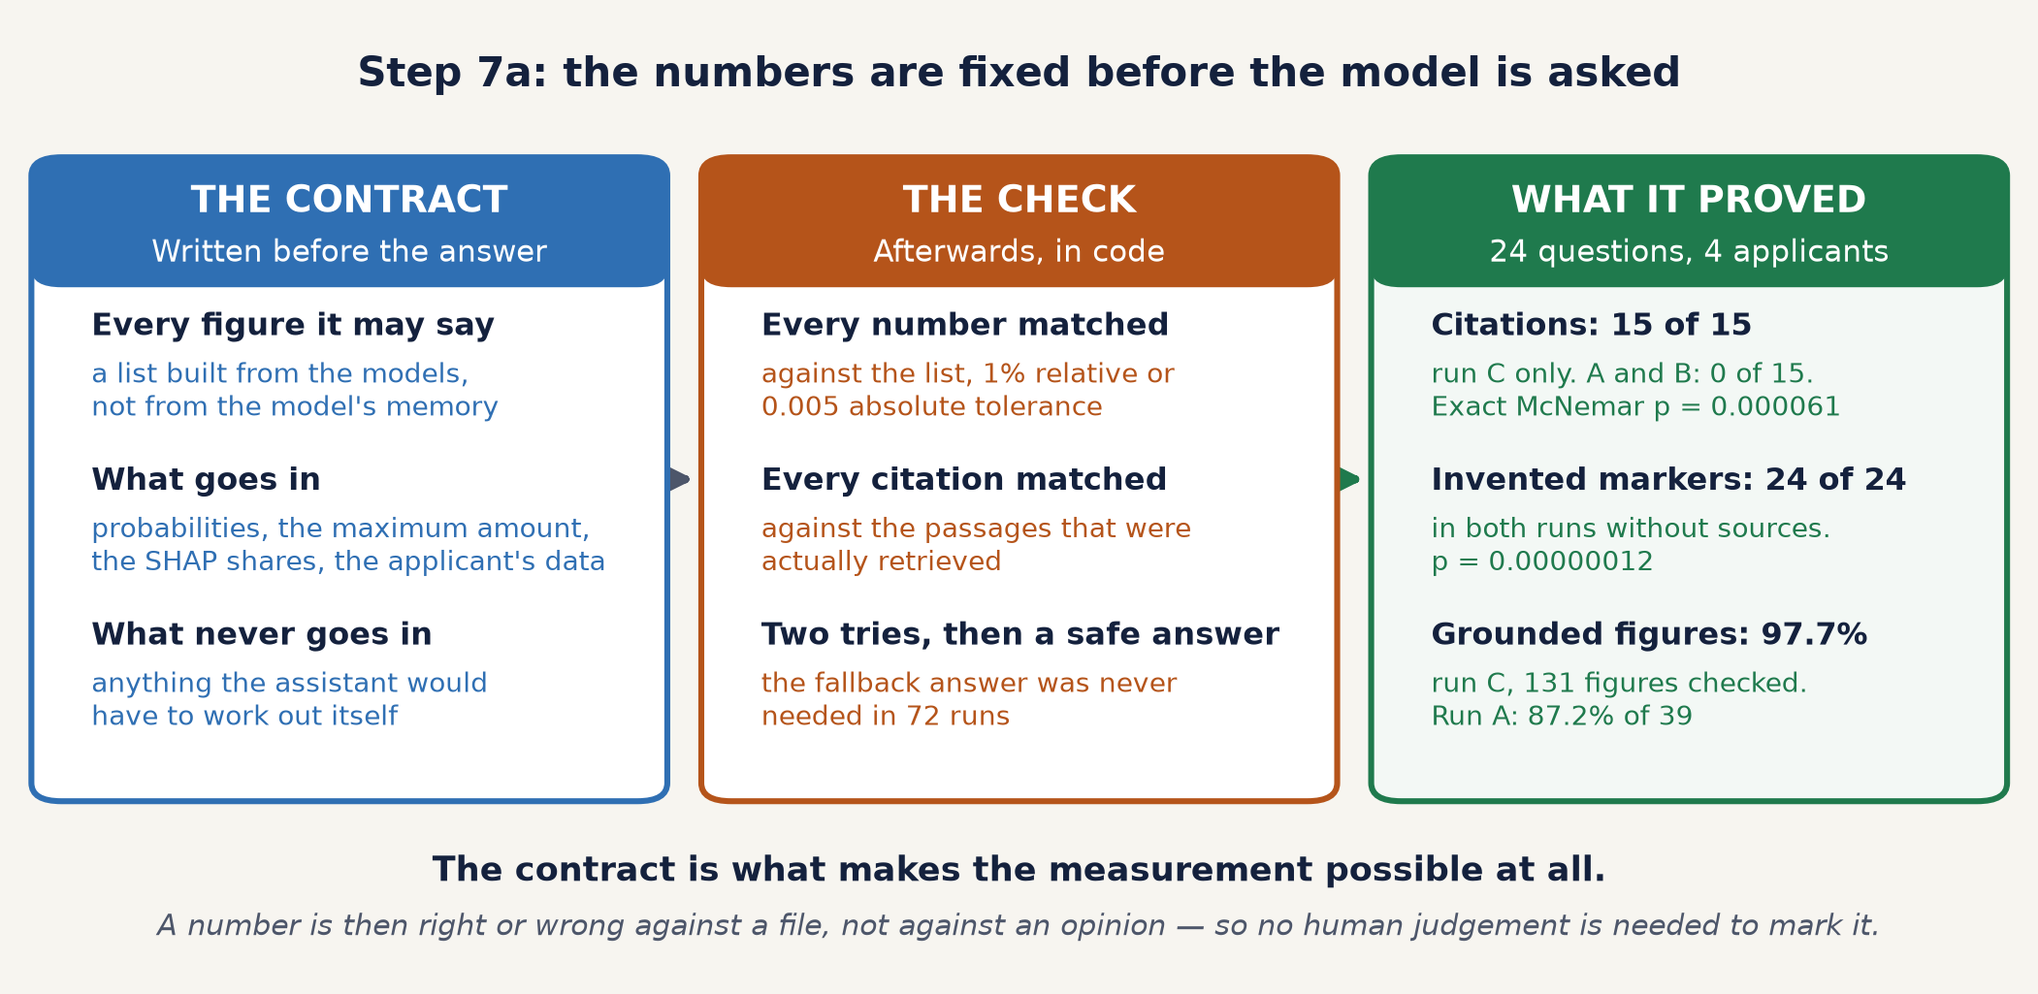
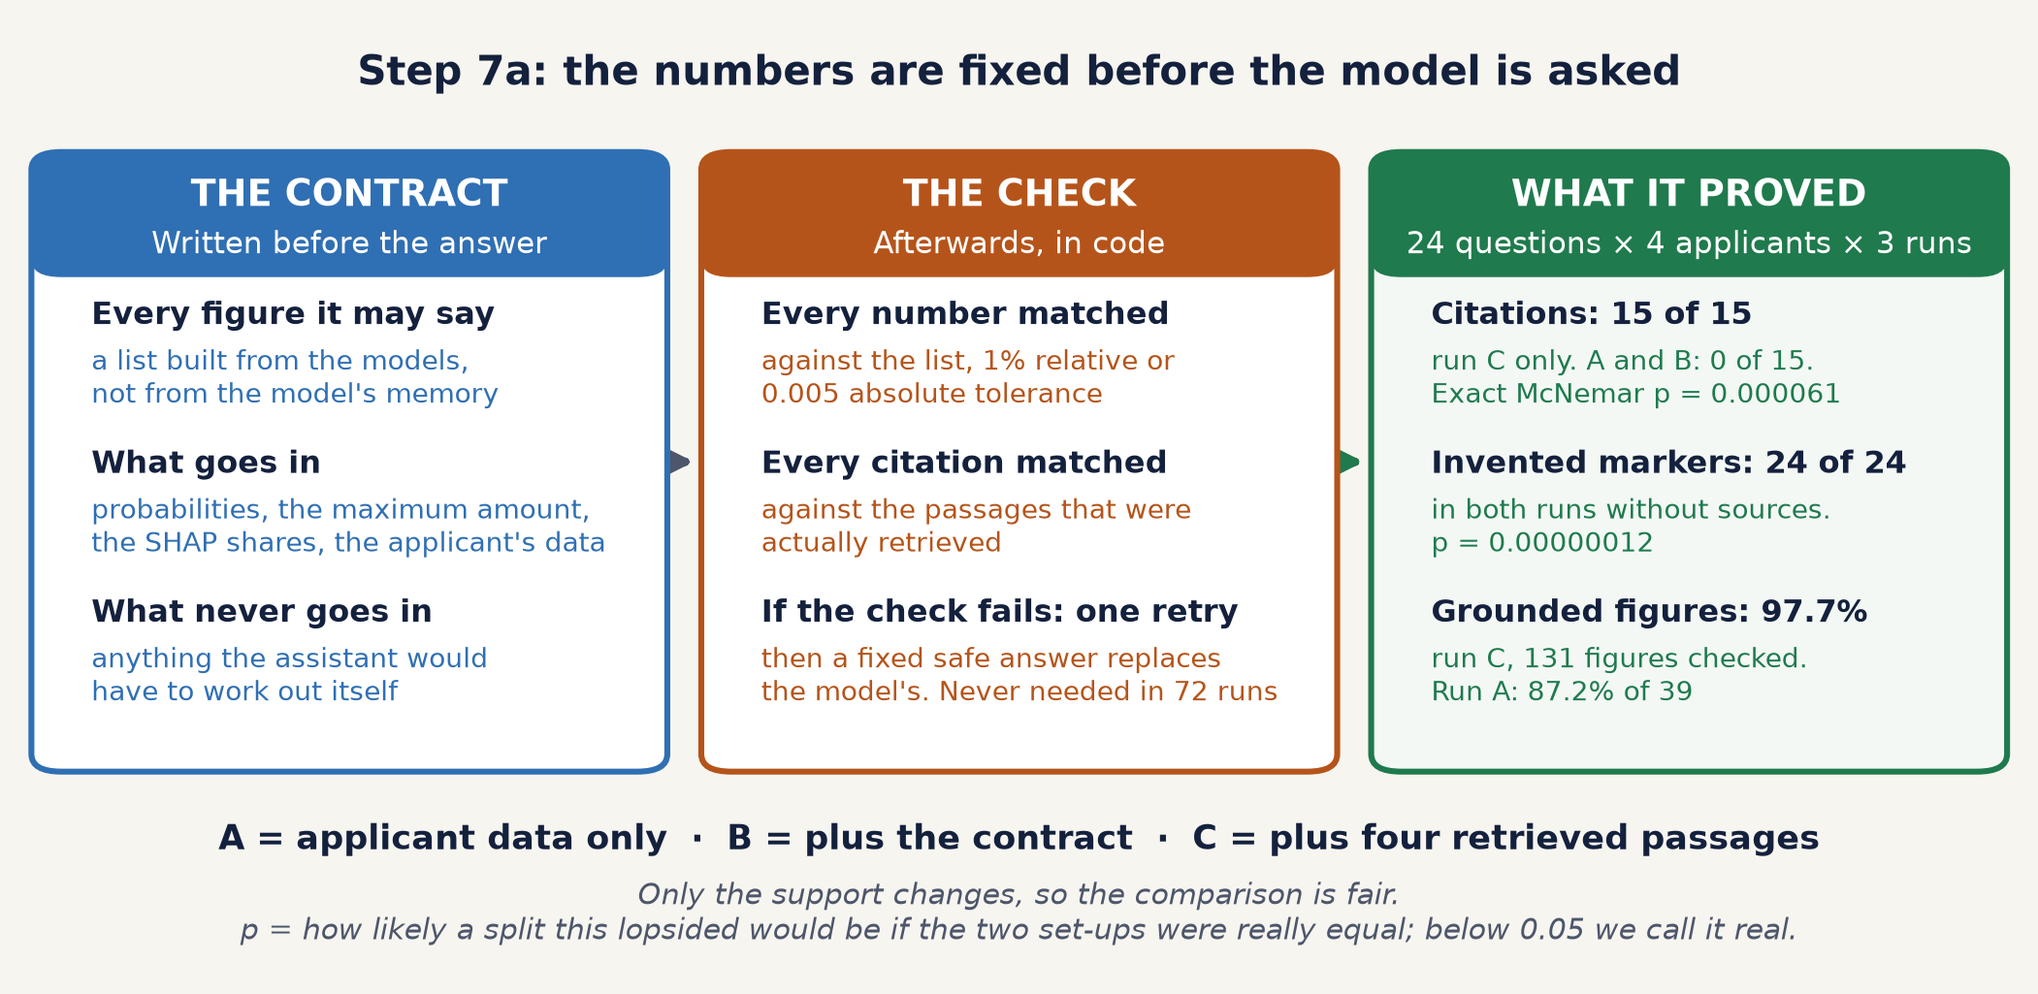
Correct the undecided count, and put the definitions on the slides
It was 5 of 8 measures undecided on dataset 2, not 4. The claim was in
two modules and five vault notes; all of them now say 5, and the figure
spells out what the 8 are (4 measures x 2 cut-offs) so the number can be
checked rather than taken.

Definitions that were missing, now on the slides themselves:

  borderline     | P - 0.80 | <= 0.05, so P from 0.75 to 0.85
  disagreement   | P(A) - P(B) | > 0.50, both models run on everyone
  weak group     within-group AUC below 0.60
  unusual input  value outside the 1st-99th percentile
  sample audit   every refusal (P < 0.80), a tenth of it read
  really approved  the true label, not the model's output

Three questions the slides invited and did not answer: the three runs
A, B and C are named where their results are quoted; the fallback answer
is described where it is claimed never to have fired; and p is explained
in a footnote on both slides that print one.

Slide 17 now states what the over-61 breach does and does not imply: the
other three groups differ by 0.079, inside tolerance, and what routes
the over-61 to a person is the weak-group AUC rule, not the fairness
choice. Slide 14 marks which items are mine rather than implying all of
them are.

diff --git a/src/explainable_ai_project/slide_figures.py b/src/explainable_ai_project/slide_figures.py
@@ -269,27 +269,28 @@ def three_steps():
              "that still reaches an 80% chance"),
             ("The reasons behind it",
              "SHAP: which detail helped, which hurt"),
-            ("Machine or human?",
+            ("● Machine or human?",
              "four rules decide, before any answer"),
             ("Qwen puts it in words",
              "it may quote our figures,\nnever compute its own"),
         ], None),
         (GREEN, "3 \u00b7 CHECK & GOVERN", "Is it fair? Is it honest?", [
-            ("Fairness, with error bars",
+            ("\u25cf Fairness, with error bars",
              "is the gap real or just a small sample?"),
-            ("Who may decide what",
+            ("\u25cf Who may decide what",
              "four zones, from automatic to stop"),
-            ("Every number re-checked",
+            ("\u25cf Every number re-checked",
              "against the figures we computed"),
-            ("The decision, written down",
+            ("\u25cf The decision, written down",
              "what we chose, who is accountable"),
         ], "#F3F8F5"),
     ])
 
     footline(axes, bottom,
-             "Step 3 is what makes steps 1 and 2 defensible.",
-             "Without it the system is only plausible. With it, every claim "
-             "can be checked.")
+             "\u25cf = my part. Steps 1 and 2 are the team's model work; "
+             "mine is who may decide, and all of step 3.",
+             "Step 3 is what makes steps 1 and 2 defensible: without it the "
+             "system is only plausible, with it every claim can be checked.")
     return figure
 
 
@@ -409,8 +410,8 @@ PLAN_STEPS = [
       "accuracy drop of at least 0.03"],
      "5 · Rules chosen", "3 safety + 2 evidence rules → 4 active",
      "deferral_rule_choice.csv", "18"),
-    (["10% of the rejections are audited",
-      "safe-stop: the system answers nothing"],
+    (["10% of all automatic refusals are read",
+      "safe-stop: no answer is given at all"],
      "6 · Four zones", "auto-accept / audit / review / safe-stop",
      "control_zones.csv", "18"),
     (["The model never computes a figure",
@@ -429,36 +430,32 @@ TOLERANCES = [
 
 def plan():
     figure, axes = canvas()
-    write(axes, 50, 98.0, "The plan: seven steps, each one controlled "
-                          "and each one evidenced",
+    write(axes, 50, 98.0, "Check and governance: seven steps, each one "
+                          "controlled and each one evidenced",
           14.5, INK, "bold", "center")
-    write(axes, 50, 93.0,
-          "Accountable: Michael Aichinger and Charles Anthony jointly  |  "
-          "No review planned: the project ends at submission",
-          10.0, MUTED, "normal", "center")
 
     # The tolerance strip. It belongs at the top because it is what makes
     # the next three slides judgeable: the limits were written down before
     # the numbers were computed.
     axes.add_patch(FancyBboxPatch(
-        (2.0, 77.0), 96.0, 10.0,
+        (2.0, 80.0), 96.0, 10.0,
         boxstyle="round,pad=0.4,rounding_size=1.2",
         linewidth=1.8, edgecolor=MUTED, facecolor="#EFEDE7", zorder=1))
-    write(axes, 50, 86.0,
+    write(axes, 50, 89.0,
           "DECLARED IN ADVANCE  —  a measure counts as breached only "
           "when the WHOLE interval lies outside the tolerance",
           10.3, INK, "bold", "center")
     for place, (name, limit, source) in enumerate(TOLERANCES):
         x = 5.0 + place * 23.5
-        write(axes, x, 82.3, name, 9.6, INK, "bold")
-        write(axes, x, 79.3, limit + "   " + source, 9.0, MUTED)
+        write(axes, x, 85.3, name, 9.6, INK, "bold")
+        write(axes, x, 82.3, limit + "   " + source, 9.0, MUTED)
 
-    write(axes, 20.0, 73.0, "CONTROL", 10.5, RUST, "bold", "right")
-    write(axes, 50.0, 73.0, "THE PATH", 10.5, INK, "bold", "center")
-    write(axes, 69.0, 73.0, "EVIDENCE", 10.5, GREEN, "bold")
+    write(axes, 20.0, 76.0, "CONTROL", 10.5, RUST, "bold", "right")
+    write(axes, 50.0, 76.0, "THE PATH", 10.5, INK, "bold", "center")
+    write(axes, 69.0, 76.0, "EVIDENCE", 10.5, GREEN, "bold")
 
-    row = 9.3
-    first = 68.0
+    row = 9.8
+    first = 71.0
     for place, step in enumerate(PLAN_STEPS):
         controls, name, detail, evidence, slide = step
         top = first - place * row
@@ -538,14 +535,16 @@ def fairness_metrics():
           r"where $\hat{p}_g$ is the share of group $g$ the model approves",
           10.0, INK)
 
-    note_box(axes, 2.0, 97.0, bottom - 11.0, 13.5, GREEN, "#F3F8F5",
+    note_box(axes, 2.0, 97.0, bottom - 11.0, 17.5, GREEN, "#F3F8F5",
              "One measure holds and three fail — so a choice is "
              "unavoidable, and it has to be written down.",
-             "2,000 bootstrap resamples, seed 42. On dataset 2 the groups "
-             "are smaller and 4 of the 8 measures stay undecided: their "
-             "interval\nstraddles the tolerance, so the honest answer is "
-             "\"not enough data\", not \"fair\".")
-    axes.set_ylim(bottom - 26.5, 100)
+             "2,000 resamples, seed 42. The 8 are 4 measures × 2 "
+             "cut-offs (0.5 and 0.8); here all 8 are decided.\n"
+             "On dataset 2 the groups are far smaller — 120 over-61 "
+             "— and 5 of the 8 stay UNDECIDED:\n"
+             "the interval straddles the tolerance, so the honest answer "
+             "is \"not enough data\", not \"fair\".")
+    axes.set_ylim(bottom - 31.0, 100)
     return figure
 
 
@@ -573,13 +572,15 @@ def rules_and_zones():
     rows = [
         ["missing data", "safety", "a required field is empty",
          "0.0%", "—", "—", "ON"],
-        ["unusual input", "safety", "a value outside the training range",
+        ["unusual input", "safety", "value outside the 1st-99th percentile",
          "7.9%", "—", "—", "ON"],
-        ["weak group", "safety", "a group the model is poor on",
+        ["weak group", "safety", "within-group AUC below 0.60",
          "5.0%", "—", "—", "ON"],
-        ["borderline", "evidence", "probability sits near the cut-off",
+        ["borderline", "evidence", "| P − 0.80 |  ≤  0.05, "
+                                   "so P from 0.75 to 0.85",
          "1.1%", "77.7%", "85.0%", "ON"],
-        ["disagreement", "evidence", "models A and B do not agree",
+        ["disagreement", "evidence",
+         "| P(model A) − P(model B) |  >  0.50",
          "29.2%", "85.5%", "85.0%", "OFF"],
     ]
     bottom = table(axes, 2.0, 97.0, 86.0, columns, rows,
@@ -610,13 +611,13 @@ def rules_and_zones():
         ("Really approved", 1.00, "right"),
     ]
     zone_rows = [
-        ["auto-accept", "answered without anyone looking",
+        ["auto-accept", "P ≥ 0.80 — answered, nobody looks",
          "5,156", "66.1%", "0", "84.7%"],
-        ["sample audit", "a 10% sample is read afterwards",
+        ["sample audit", "P < 0.80 — a 10% sample is read later",
          "1,648", "21.1%", "165", "14.1%"],
         ["human review", "a person decides together with the model",
          "68", "0.9%", "68", "79.4%"],
-        ["safe-stop", "no basis at all — the system gives no answer",
+        ["safe-stop", "no basis at all — no answer is given",
          "928", "11.9%", "928", "37.9%"],
     ]
     lowest = table(axes, 2.0, 97.0, bottom - 19.0, zone_columns, zone_rows,
@@ -627,7 +628,13 @@ def rules_and_zones():
           "1,161 of 7,800 cases reach a person — 14.9%. "
           "Of the over-61: 100% safe-stop, not one automatic answer.",
           10.6, INK, "bold")
-    axes.set_ylim(lowest - 6.5, 100)
+    write(axes, 2.0, lowest - 4.4,
+          "\"Really approved\" = the share in that zone who did get a loan "
+          "in the data — the true label, not the model's output.\n"
+          "Both models run on every applicant; disagreement compares their "
+          "two probabilities.",
+          9.8, MUTED)
+    axes.set_ylim(lowest - 13.5, 100)
     return figure
 
 
@@ -656,10 +663,12 @@ def contract_figure():
              "against the list, 1% relative or\n0.005 absolute tolerance"),
             ("Every citation matched",
              "against the passages that were\nactually retrieved"),
-            ("Two tries, then a safe answer",
-             "the fallback answer was never\nneeded in 72 runs"),
+            ("If the check fails: one retry",
+             "then a fixed safe answer replaces\nthe model's. Never needed "
+             "in 72 runs"),
         ], None),
-        (GREEN, "WHAT IT PROVED", "24 questions, 4 applicants", [
+        (GREEN, "WHAT IT PROVED", "24 questions × 4 applicants × "
+                                  "3 runs", [
             ("Citations: 15 of 15",
              "run C only. A and B: 0 of 15.\nExact McNemar p = 0.000061"),
             ("Invented markers: 24 of 24",
@@ -670,9 +679,11 @@ def contract_figure():
     ])
 
     footline(axes, bottom,
-             "The contract is what makes the measurement possible at all.",
-             "A number is then right or wrong against a file, not against "
-             "an opinion — so no human judgement is needed to mark it.")
+             "A = applicant data only  ·  B = plus the contract  "
+             "·  C = plus four retrieved passages",
+             "Only the support changes, so the comparison is fair.\n"
+             "p = how likely a split this lopsided would be if the two "
+             "set-ups were really equal; below 0.05 we call it real.")
     return figure
 
 
@@ -719,8 +730,10 @@ def language_model():
     footline(axes, bottom,
              "Grounding buys correctness and costs readability. "
              "That is a design problem, not a bug.",
-             "Cohen's κ = −0.04: one reader simply stricter. 75% "
-             "agreed within one point, and both ranked the runs alike.")
+             "p = how likely a gap this large is by chance alone. "
+             "0.219 = about once in five, too often to call it real.\n"
+             "Cohen's κ = −0.04: one reader was simply stricter. "
+             "75% agreed within one point, and both ranked the runs alike.")
     return figure
 
 
@@ -862,13 +875,22 @@ def equal_opportunity():
           "Difference 0.966, where we allow 0.100.",
           12.0, INK, "bold")
     write(axes, left + 2.0, bar - 5.6,
-          "Not a small-sample accident: resampling the test rows 2,000 times "
-          "puts the gap between 0.959 and 0.973.\n"
-          "Same model, same cut-off — the over-61 are simply never "
-          "approved, although 15.4% of them were in the data.",
-          10.8, MUTED)
+          "The other three groups differ by only 0.079 — inside the "
+          "tolerance. The breach is the over-61 alone.\n"
+          "2,000 resamples put the gap at 0.959 to 0.973 — real, "
+          "although 15.4% of them were approved in the data.",
+          10.6, MUTED)
 
-    axes.set_ylim(bar - 14.0, 100)
+    write(axes, left, bar - 18.0,
+          "What sends them to a person is not the fairness choice but a "
+          "separate rule:\n"
+          "61+ has a within-group AUC of 0.52, below the 0.60 limit, so the "
+          "weak-group rule puts all of them in safe-stop.\n"
+          "Equal opportunity is what we report against; the AUC is what "
+          "pulls the trigger.",
+          10.3, INK)
+
+    axes.set_ylim(bar - 30.0, 100)
     return figure
 
 

diff --git a/slides/build_slides.py b/slides/build_slides.py
@@ -71,22 +71,24 @@ WIDE = "fit:1.22,11.90,5.35"
 
 CONTENT = {
     "story": {
-        "eyebrow": "MY PART \u00b7 WHAT I BUILT AND HOW I CHECKED IT",
+        "eyebrow": "THE SYSTEM AS A WHOLE \u00b7 MY PART IS MARKED",
         "source": "Source: slide_figures.py, run_all.sh \u00b7 14",
         "figure": ("folie_drei_schritte.png", WIDE),
         "notes":
-            "My half of the project in one picture. Steps 1 and 2 are the "
-            "system: train two forests on 72,000 past applications, then "
-            "for one applicant compute the largest amount that still "
-            "reaches an 80% chance, the SHAP reasons, and whether a human "
-            "has to decide. Step 3 is where most of the time went: "
-            "checking that the result is fair, that the explanation is "
-            "honest, and writing the decisions down. Without step 3 the "
-            "system is only plausible. With it, every claim in the next "
-            "seven slides can be checked against a file.",
+            "The whole system in one picture, so you can see where my part "
+            "sits. Steps 1 and 2 are the team's model work: two forests on "
+            "72,000 past applications, and for one applicant the largest "
+            "amount that still reaches an 80% chance, with the SHAP "
+            "reasons. The marked items are mine - inside step 2, the rules "
+            "that decide whether a machine may answer at all, and then the "
+            "whole of step 3. That is where most of my time went: checking "
+            "that the result is fair, that the explanation is honest, and "
+            "writing the decisions down. Without step 3 the system is only "
+            "plausible. With it, every claim in the next seven slides can "
+            "be checked against a file.",
     },
     "theplan": {
-        "eyebrow": "THE PLAN \u00b7 EVERY STEP HAS A CONTROL AND A PROOF",
+        "eyebrow": "CHECK AND GOVERNANCE \u00b7 EVERY STEP HAS A CONTROL AND A PROOF",
         "source": "Source: governance_decision.md, provenance.json \u00b7 15",
         "figure": ("folie_plan.png", WIDE),
         "notes":
@@ -100,7 +102,10 @@ CONTENT = {
             "whole confidence interval lies outside - that is what stops "
             "us from moving the goalposts afterwards. Second, steps 1 and "
             "2 are the team's slides 3 and 5, so I will not repeat them. "
-            "I start at step 3.",
+            "I start at step 3. If anyone asks who is accountable: Charles "
+            "and I jointly, there is no review planned, and the project "
+            "ends at submission - that is on the last slide rather than "
+            "this one.",
     },
     "fairness": {
         "eyebrow": "STEP 3 \u00b7 FAIRNESS MEASURED, WITH CONFIDENCE INTERVALS",
@@ -116,9 +121,13 @@ CONTENT = {
             "breached, one holds. The intervals matter: with 2,000 "
             "resamples the equal-opportunity gap sits between 0.959 and "
             "0.973, so it is a property of the model, not of which rows "
-            "landed in the test split. On dataset 2 the groups are much "
-            "smaller, and 4 of 8 measures stay undecided - we report that "
-            "as undecided rather than calling it fair.",
+            "landed in the test split. The eight measures are these four "
+            "at two cut-offs, 0.5 and 0.8. On dataset 1 all eight are "
+            "decided: six breached, two held, both of them predictive "
+            "parity. On dataset 2 the groups are far smaller - 120 over-61 "
+            "instead of 390 - and five of the eight stay undecided, "
+            "because the interval straddles the tolerance. Undecided is "
+            "not the same as fair, and we report it as undecided.",
     },
     "conflict": {
         "eyebrow": "STEP 4 \u00b7 THE CONFLICT, GROUP BY GROUP",
@@ -138,7 +147,16 @@ CONTENT = {
             "someone who would have repaid. And we did not patch it: "
             "removing the age field changes the gap by nothing, 0.966 "
             "before and after, because the credit score carries the same "
-            "signal.",
+            "signal. Two likely questions. Is 88.7 percent good enough for "
+            "the 46-60 group? By our declared tolerance, yes: the three "
+            "younger groups differ by only 0.079, inside the 0.10 limit. "
+            "The whole breach is the over-61. And does choosing equal "
+            "opportunity mean the over-61 always go to a human? Not "
+            "directly - those are two separate things. The fairness choice "
+            "is what we report against; what actually routes them is the "
+            "weak-group rule, which fires because the within-group AUC "
+            "there is 0.52, below our 0.60 limit. The two happen to point "
+            "at the same group.",
     },
     "rules": {
         "eyebrow": "STEPS 5 AND 6 \u00b7 WHEN A PERSON DECIDES, AND WHY",
@@ -155,11 +173,22 @@ CONTENT = {
             "Disagreement does not: 85.5 against 85.0, the model is "
             "actually slightly better there. Switching it on would have "
             "sent 2,257 of 7,738 cases to a person for nothing. That is "
-            "the control we rejected, and we rejected it on evidence. The "
-            "four zones below show where everything lands: two thirds "
-            "answered automatically, 14.9 percent reaching a person, and "
-            "every single over-61 case in safe-stop, where the system "
-            "gives no answer at all.",
+            "the control we rejected, and we rejected it on evidence. Note "
+            "what disagreement actually compares: both models run on every "
+            "applicant, and the rule fires when their two probabilities "
+            "differ by more than 0.50 - not the amounts, the "
+            "probabilities. The four zones below show where everything "
+            "lands. Sample audit is not a narrow band around the "
+            "threshold: it is every automatic refusal, so everything below "
+            "0.80 that no rule caught, and a tenth of that stream is read "
+            "by a person. The cases between 0.75 and 0.85 never get there "
+            "- the borderline rule pulls them into human review first. Two "
+            "thirds are answered automatically, 14.9 percent reach a "
+            "person, and every single over-61 case is in safe-stop, where "
+            "the system gives no answer at all. One word on the last "
+            "column: really approved is the share of people in that zone "
+            "who did get a loan in the data, the true label, not the "
+            "model's output.",
     },
     "contract": {
         "eyebrow": "STEP 7A \u00b7 THE CONTRACT: FIX THE NUMBERS BEFORE ASKING",
@@ -173,13 +202,24 @@ CONTENT = {
             "applicant's own data. The model may quote from that list and "
             "nothing else. Afterwards every number in the answer is "
             "matched back against it, and every citation against the "
-            "passages actually retrieved. Three results, all on 24 "
-            "questions over 4 applicants. Citations: the full system cites "
+            "passages actually retrieved. If a number or a citation fails "
+            "the check, the model gets one more try; if that fails too, a "
+            "fixed safe answer replaces its own. In 72 runs the fallback "
+            "was never needed. The three runs on the right are the "
+            "comparison: A is Qwen with the applicant's data only, B adds "
+            "our contract, C adds four retrieved passages on top. Only the "
+            "support changes, which is what makes it a fair test. Three "
+            "results, all on 24 questions over 4 applicants. Citations: "
+            "the full system cites "
             "a real source in 15 of 15 source questions, the other two "
             "runs in zero - exact McNemar p = 0.000061. Invented markers: "
             "when the runs have no sources, all 24 answers invent one "
             "anyway, p = 0.00000012. And 97.7 percent of the 131 figures "
-            "in run C trace back to something we computed.",
+            "in run C trace back to something we computed. If anyone asks "
+            "what p means: it is how likely a split this lopsided would be "
+            "if the two set-ups were really equally good. Below 0.05 we "
+            "call the difference real; 0.000061 means it would happen "
+            "about once in sixteen thousand times by chance.",
     },
     "language": {
         "eyebrow": "STEP 7B \u00b7 WHAT THE LANGUAGE MODEL DOES BY ITSELF",

diff --git a/src/explainable_ai_project/overview_figure.py b/src/explainable_ai_project/overview_figure.py
@@ -663,7 +663,7 @@ def draw_measurement():
          "Behandelt das Modell Altersgruppen unterschiedlich -\n"
          "und ist der Unterschied groesser als der Zufall?",
          "Luecke real: 0,966 (Spanne 0,959-0,973).\n"
-         "Bei Datensatz 2: 4 von 8 Massen unentscheidbar.",
+         "Bei Datensatz 2: 5 von 8 Massen unentscheidbar.",
          RED)
 
     step(51.5, 66.0, 45.0, 17.0, "2", "Vier Kontrollzonen",
